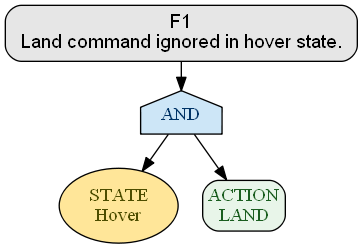
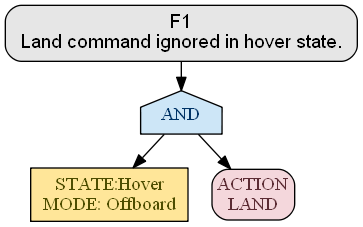
fault trees updated with newer versions - small screenshot added

Changed region(s): [[0.0, 0.1233, 1.0, 0.9868], [0.0, 0.0, 1.0, 0.1233]]

diff --git a/RQ2.md b/RQ2.md
@@ -31,20 +31,20 @@ We identified the following Failures:
 
 
 ## Fault Trees
-> **Note:** Flight logs from PX4 attached here if accepted *(removed for anonymity)*  
+> **Note:** The full Flight logs from PX4 will attached here if accepted *(removed for anonymity as they potentially reveal location information)*  
 <a name="fault-trees"></a>
 
-| **ID** | **Fault Tree Image** |
-|--------|----------------------|
-| F1  | ![F1](Figures/Fault-Trees/F1.png)  |
-| F2  | ![F2](Figures/Fault-Trees/F2.png)  |
-| F3  | ![F3](Figures/Fault-Trees/F3.png)  |
-| F4  | ![F4](Figures/Fault-Trees/F4.png)  |
-| F5  | ![F5](Figures/Fault-Trees/F5.png)  |
-| F6  | ![F6](Figures/Fault-Trees/F6.png)  |
-| F7  | ![F7](Figures/Fault-Trees/F7.png)  |
-| F8  | ![F8](Figures/Fault-Trees/F8.png)  |
-| F9  | ![F9](Figures/Fault-Trees/F9.png)  |
-| F10 | ![F10](Figures/Fault-Trees/F10.png) |
-| F11 | ![F11](Figures/Fault-Trees/F11.png) |
+| **ID** | **Fault Tree Image** | **Flight Log Example** |
+|--------|----------------------|------------------------|
+| F1  | ![F1](Figures/Fault-Trees/F1.png)  | ![F1 Log](Figures/Flight-Log-Examples/f1_log.jpg)  |
+| F2  | ![F2](Figures/Fault-Trees/F2.png)  | ![F2 Log](Figures/Flight-Log-Examples/f2_log.jpg)  |
+| F3  | ![F3](Figures/Fault-Trees/F3.png)  | ![F3 Log](Figures/Flight-Log-Examples/f3_log.jpg)  |
+| F4  | ![F4](Figures/Fault-Trees/F4.png)  | ![F4 Log](Figures/Flight-Log-Examples/f4_log.jpg)  |
+| F5  | ![F5](Figures/Fault-Trees/F5.png)  | ![F5 Log](Figures/Flight-Log-Examples/f5_log.jpg)  |
+| F6  | ![F6](Figures/Fault-Trees/F6.png)  | ![F6 Log](Figures/Flight-Log-Examples/f6_log.jpg)  |
+| F7  | ![F7](Figures/Fault-Trees/F7.png)  | ![F7 Log](Figures/Flight-Log-Examples/f7_log.jpg)  |
+| F8  | ![F8](Figures/Fault-Trees/F8.png)  | ![F8 Log](Figures/Flight-Log-Examples/f8_log.jpg)  |
+| F9  | ![F9](Figures/Fault-Trees/F9.png)  | ![F9 Log](Figures/Flight-Log-Examples/f9_log.jpg)  |
+| F10 | ![F10](Figures/Fault-Trees/F10.png) | ![F10 Log](Figures/Flight-Log-Examples/f10_log.jpg) |
+| F11 | ![F11](Figures/Fault-Trees/F11.png) | ![F11 Log](Figures/Flight-Log-Examples/f11_log.jpg) |
 

diff --git a/RQ1.md b/RQ1.md
@@ -28,7 +28,7 @@ The following provices an overview of the elements used in the Fuzz Scenario Tem
 
 | **Field** | **Description** | **Example Values** |
 |-----------|-----------------|--------------------|
-| `FROM_PX4_modes` | List of PX4 flight modes that the system begins in | `"OFFBOARD"`, `"LAND"` |
+| `FROM_PX4_modes` | List of PX4 flight modes that the system begins in | [`"OFFBOARD"`](https://docs.px4.io/main/en/flight_modes/offboard) , [`"LAND"`](https://docs.px4.io/main/en/flight_modes_mc/land.html)  |
 | `FROM_APP_states` | List of application-level states to fuzz transitions from | `"TAKEOFF"`, `"HOVERING"` |
 | `RC_INPUT_EVENTS` | Manual input modes injected during the test | `"ALTCTL"`, `"POSCTL"` |
 | `ENVIRONMENT.transition_delay` | Time interval between state and input event | `50-1200 ms` |
